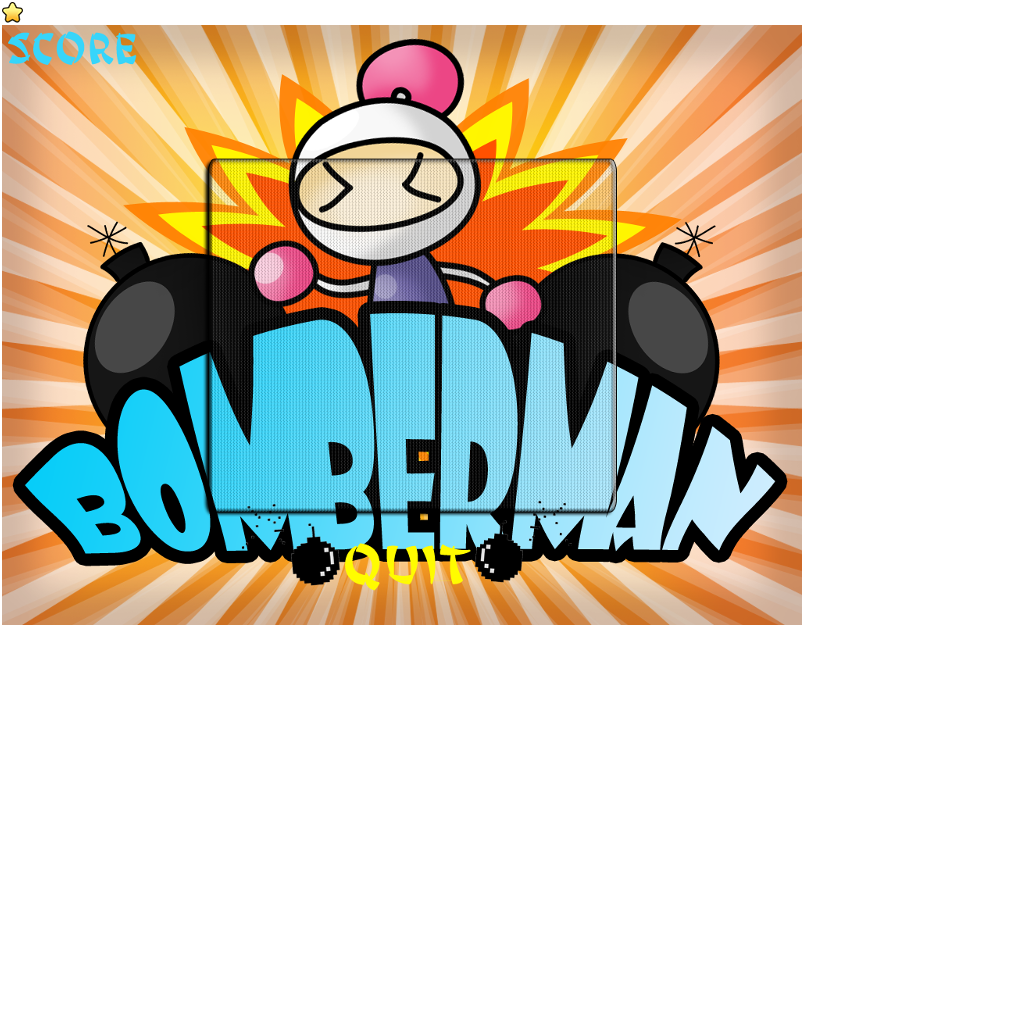
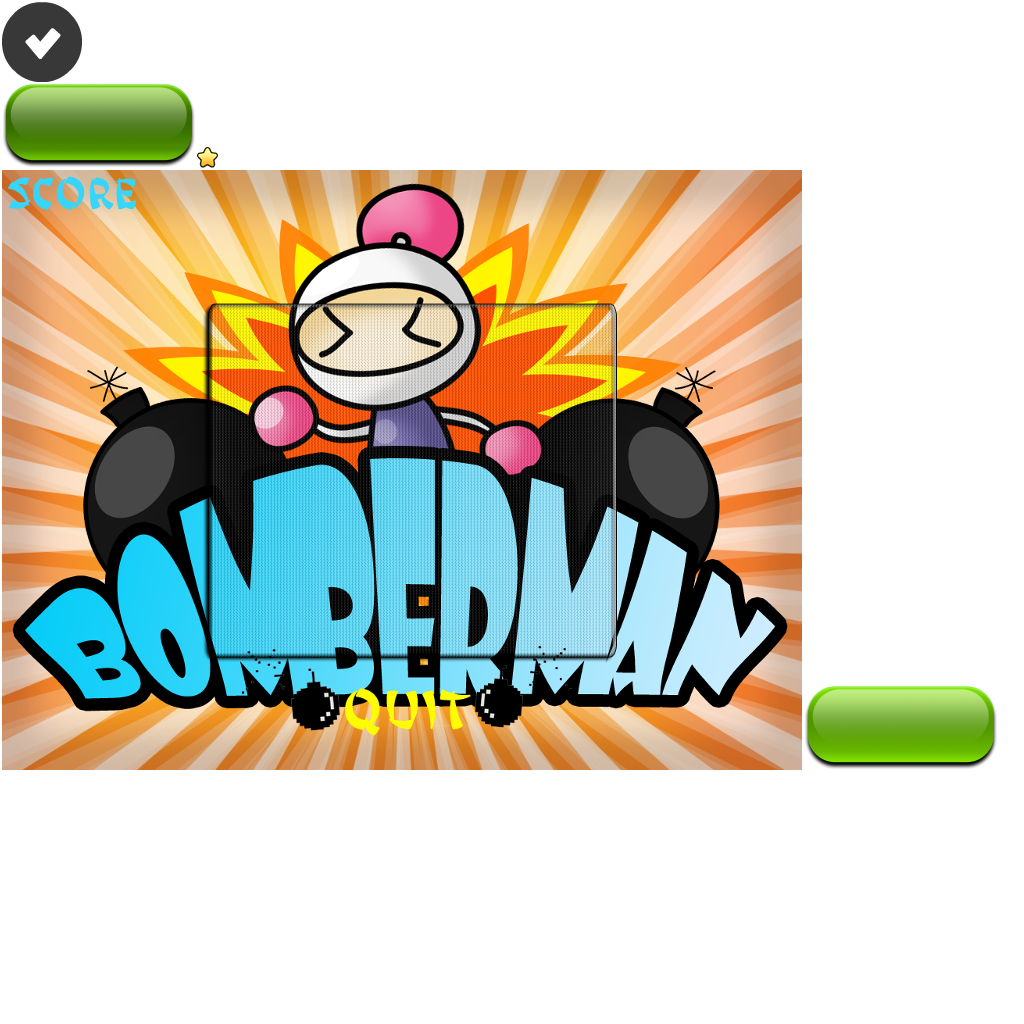
Exit button implemented

diff --git a/core/src/main/java/net/javaci/mobile/bomberman/core/view/LobbyScreen.java b/core/src/main/java/net/javaci/mobile/bomberman/core/view/LobbyScreen.java
@@ -1,9 +1,7 @@
 package net.javaci.mobile.bomberman.core.view;
 
-import com.badlogic.gdx.scenes.scene2d.Event;
-import com.badlogic.gdx.scenes.scene2d.EventListener;
-import com.badlogic.gdx.scenes.scene2d.Group;
-import com.badlogic.gdx.scenes.scene2d.InputEvent;
+import com.badlogic.gdx.Gdx;
+import com.badlogic.gdx.scenes.scene2d.*;
 import com.badlogic.gdx.scenes.scene2d.ui.Label;
 import com.badlogic.gdx.scenes.scene2d.ui.ScrollPane;
 import com.badlogic.gdx.scenes.scene2d.ui.Table;
@@ -35,6 +33,12 @@ public class LobbyScreen extends BomberManScreen {
 
     public void initialize() {
         gameTable = new Table();
+        ((TextButton)findActor("quitButton")).addListener(new ClickListener() {
+            @Override
+            public void clicked(InputEvent event, float x, float y) {
+                Gdx.app.exit();
+            }
+        });
         initializeGameList();
         networkListenerAdapter = new NetworkListenerAdapter() {
             @Override
